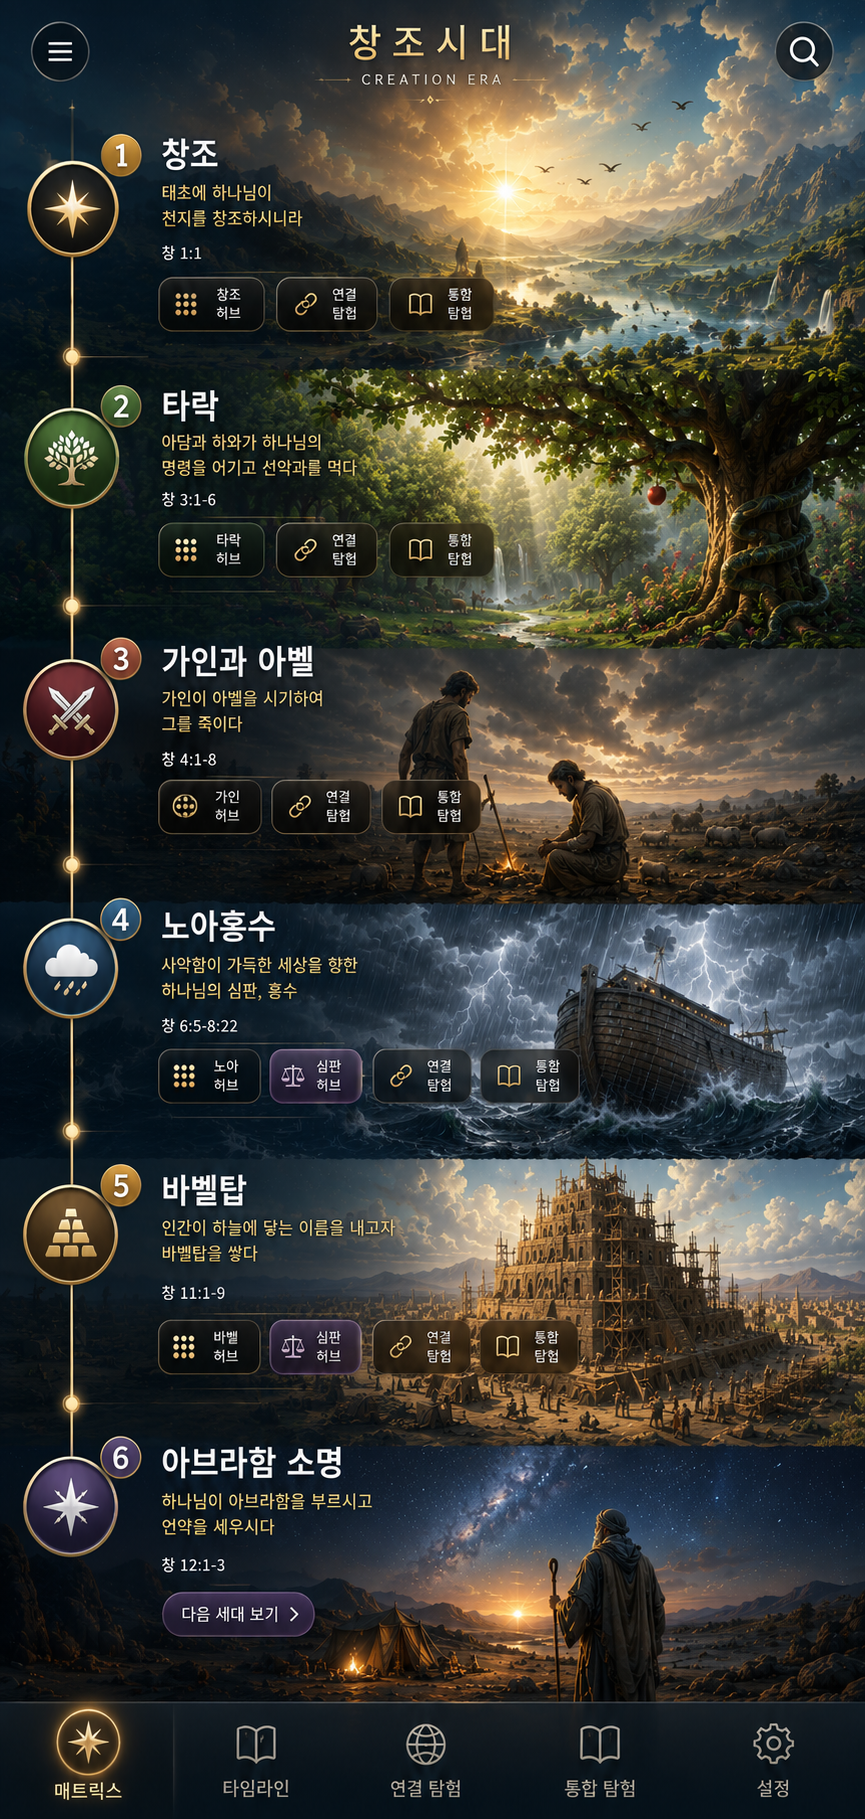
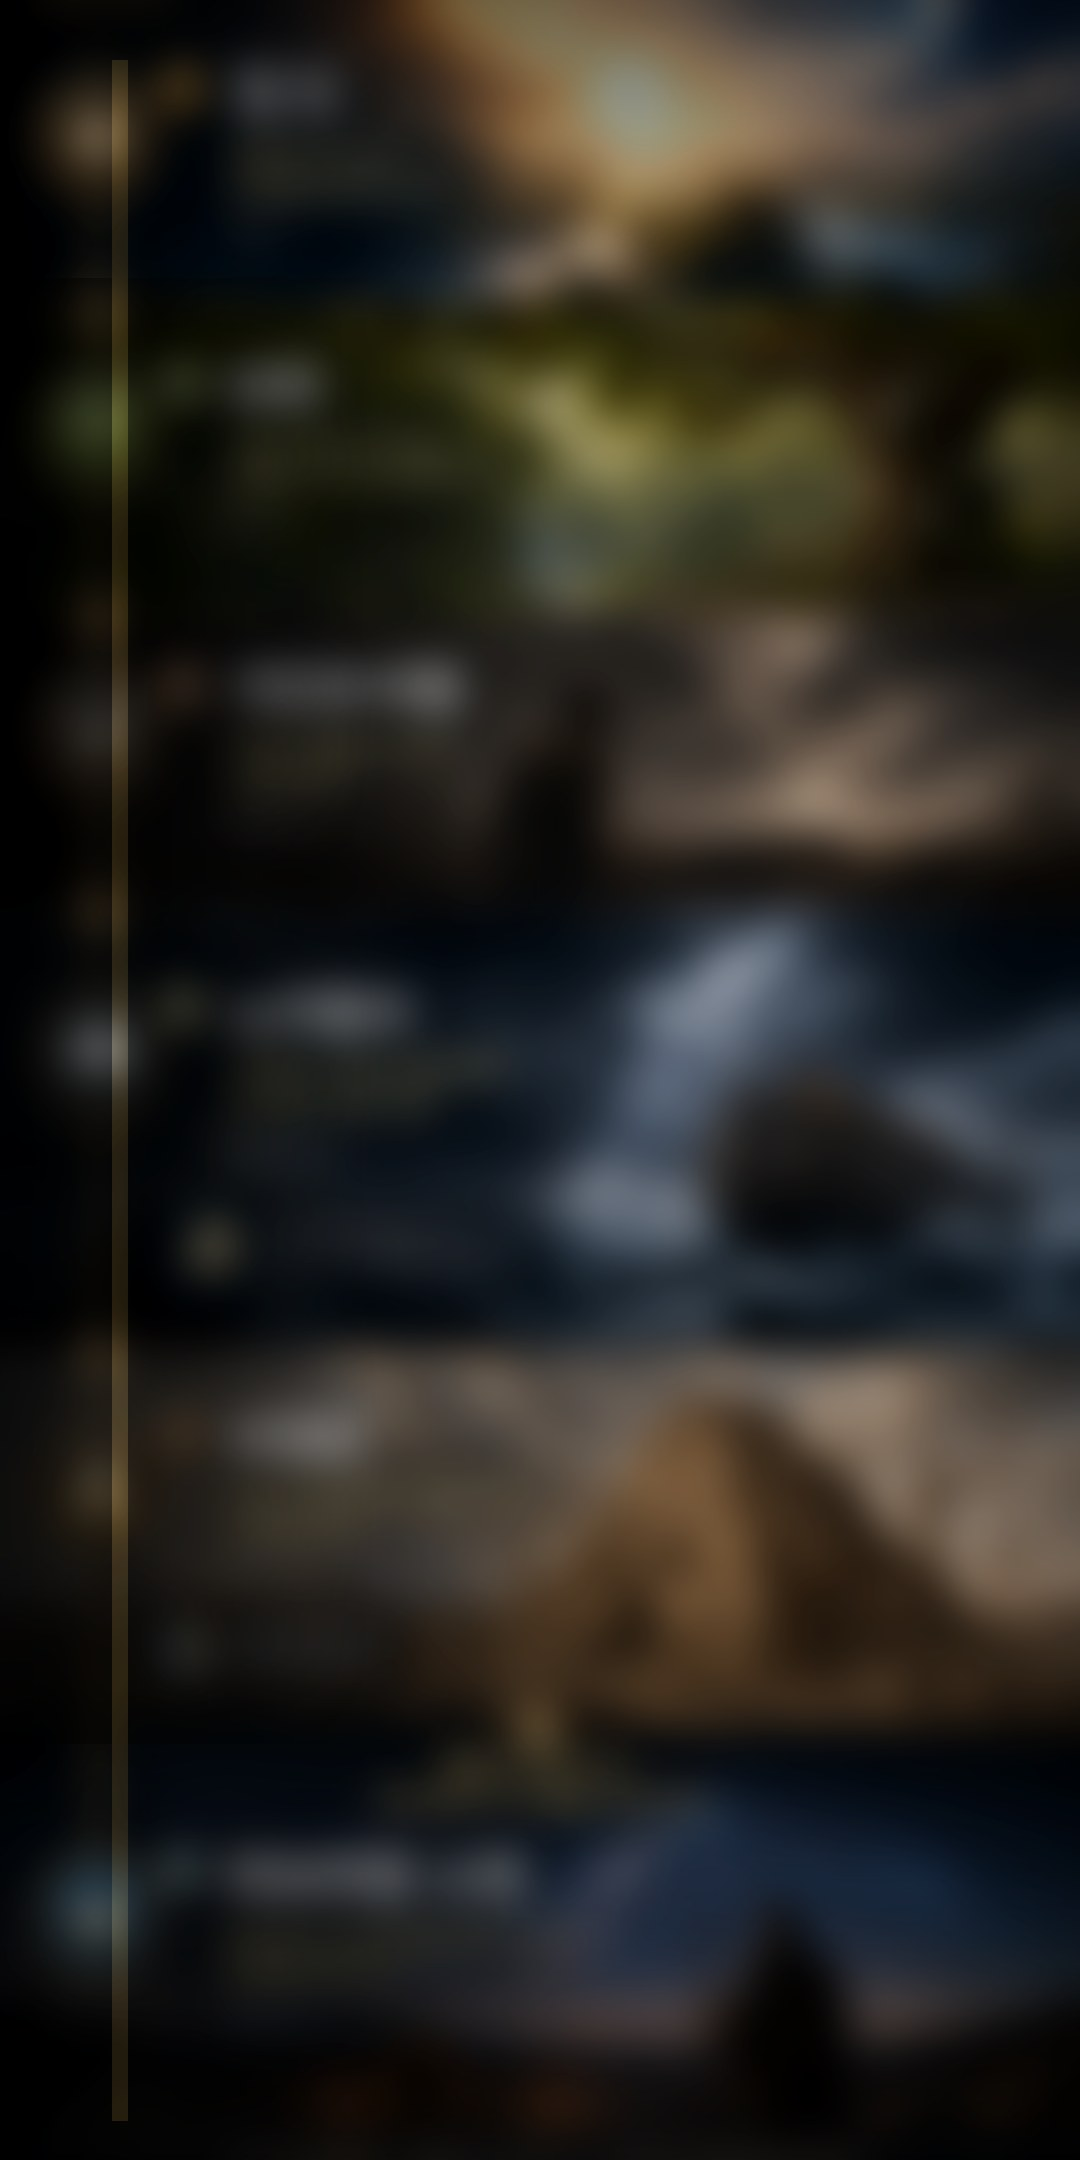
Add files via upload

diff --git a/index.html b/index.html
@@ -3,7 +3,7 @@
 <head>
 <meta charset="utf-8" />
 <meta name="viewport" content="width=device-width, initial-scale=1, viewport-fit=cover" />
-<title>창조시대 Matrix v8</title>
+<title>창조시대 Matrix v6</title>
 <link rel="manifest" href="./manifest.webmanifest" />
 <meta name="theme-color" content="#071017" />
 <style>
@@ -19,16 +19,16 @@ body{display:flex;justify-content:center}
 .stage{position:relative;width:100%;line-height:0;padding-bottom:74px;background:#071017}
 .bg{display:block;width:100%;height:auto;filter:saturate(1.03) contrast(1.02) brightness(.98);user-select:none;pointer-events:none}
 /* 기준 이미지 865×1819 기준으로 % 좌표화. 배경 텍스트 제거 전에도 겹침이 덜 보이도록 텍스트 뒤에만 얇은 스크림을 둔다. */
-.scrim{position:absolute;left:15.5%;width:43%;height:8.9%;border-radius:18px;background:linear-gradient(90deg,rgba(4,8,13,.58),rgba(4,8,13,.31),rgba(4,8,13,0));filter:blur(.2px);z-index:2;pointer-events:none}
+.scrim{position:absolute;left:15.5%;width:43%;height:8.7%;border-radius:18px;background:linear-gradient(90deg,rgba(4,8,13,.46),rgba(4,8,13,.24),rgba(4,8,13,0));filter:blur(.2px);z-index:2;pointer-events:none}
 .s1{top:7.15%}.s2{top:19.4%}.s3{top:32.8%}.s4{top:45.85%}.s5{top:59.2%}.s6{top:72.15%;height:7.8%}
 .titleLayer{position:absolute;z-index:5;left:50%;top:1.55%;transform:translateX(-50%);width:52%;text-align:center;line-height:1;text-shadow:0 3px 12px rgba(0,0,0,.95)}
 .titleLayer h1{margin:0;font-size:clamp(24px,6.2vw,42px);letter-spacing:.16em;color:#f6dfaa;font-weight:800}.titleLayer p{margin:7px 0 0;font-size:clamp(8.5px,1.9vw,12px);letter-spacing:.18em;color:#dfc284;font-weight:650}
 .eventTitle{position:absolute;z-index:6;left:18.0%;width:44%;line-height:1.04;text-shadow:0 3px 8px rgba(0,0,0,.95),0 0 18px rgba(0,0,0,.82)}
-.eventTitle h2{margin:0;color:var(--white);font-size:clamp(15px,3.75vw,24px);font-weight:950;letter-spacing:-.075em;white-space:nowrap;text-shadow:0 4px 10px rgba(0,0,0,.98),0 0 18px rgba(0,0,0,.9)}.eventTitle .desc{margin:.42em 0 0;color:#ffe28a;font-size:clamp(7.8px,1.75vw,10.5px);font-weight:760;line-height:1.28;letter-spacing:-.05em;word-break:keep-all;overflow-wrap:normal;text-shadow:0 3px 7px rgba(0,0,0,.95)}.eventTitle .ref{margin:.42em 0 0;color:#fff;font-size:clamp(7.4px,1.55vw,9.2px);font-weight:700;opacity:.96;text-shadow:0 2px 6px rgba(0,0,0,.92)}
+.eventTitle h2{margin:0;color:var(--white);font-size:clamp(11px,2.75vw,18px);font-weight:600;letter-spacing:-.055em;white-space:nowrap}.eventTitle .desc{margin:.32em 0 0;color:#ffe28a;font-size:clamp(7.8px,1.75vw,10.5px);font-weight:700;line-height:1.28;letter-spacing:-.05em;word-break:keep-all;overflow-wrap:normal}.eventTitle .ref{margin:.42em 0 0;color:#fff;font-size:clamp(7.4px,1.55vw,9.2px);font-weight:650;opacity:.95}
 .t1{top:7.35%}.t2{top:19.95%}.t3{top:33.3%}.t4{top:46.4%}.t5{top:59.8%}.t6{top:72.8%}
 /* 버튼은 각 사건 박스의 상단~2/3 지점 사이, 같은 X축 기준으로 정렬 */
 .btnRow{position:absolute;z-index:7;left:51.2%;width:44.4%;display:grid;grid-auto-flow:column;grid-auto-columns:minmax(0,1fr);gap:1.4%;height:3.35%;line-height:1}
-.r1{top:13.65%}.r2{top:24.6%}.r3{top:37.15%}.r4{top:52.9%}.r5{top:66.55%}
+.r1{top:13.65%}.r2{top:24.6%}.r3{top:35.85%}.r4{top:52.9%}.r5{top:66.55%}
 .matrixBtn{border:1px solid rgba(247,216,137,.52);border-radius:12px;background:linear-gradient(180deg,rgba(18,21,24,.84),rgba(5,8,12,.82));box-shadow:0 6px 16px rgba(0,0,0,.38), inset 0 1px 0 rgba(255,255,255,.08);backdrop-filter:blur(5px);color:#f7ead0;font-size:clamp(8px,1.85vw,10.5px);font-weight:850;text-shadow:0 1px 2px rgba(0,0,0,.85);display:flex;align-items:center;justify-content:center;gap:4px;line-height:1.05;padding:0 4px;cursor:pointer;min-width:0;white-space:normal;text-align:center}.matrixBtn .ico{font-size:1.22em;color:var(--gold);line-height:1}.matrixBtn.judgment{border-color:rgba(235,132,171,.75);background:linear-gradient(180deg,rgba(64,33,49,.86),rgba(18,10,17,.82))}.matrixBtn.covenant{border-color:rgba(208,155,255,.72);background:linear-gradient(180deg,rgba(51,36,75,.85),rgba(14,10,24,.83))}.matrixBtn.nations{border-color:rgba(245,185,81,.75);background:linear-gradient(180deg,rgba(83,55,18,.86),rgba(22,14,6,.82))}
 /* 6번은 사건이 아니라 다음 시대 입구로 보이게 상징 오른쪽 아래로 분리 */
 .nextBtn{position:absolute;z-index:8;left:18.0%;top:78.9%;height:3.3%;min-width:22%;padding:0 4%;border:1px solid rgba(208,155,255,.66);border-radius:999px;background:linear-gradient(180deg,rgba(72,47,101,.86),rgba(25,14,43,.88));color:#f3e8ff;font-size:clamp(10px,2.45vw,15px);font-weight:850;box-shadow:0 7px 18px rgba(0,0,0,.4);text-shadow:0 1px 3px rgba(0,0,0,.75);cursor:pointer}

diff --git a/service-worker.js b/service-worker.js
@@ -1,4 +1,4 @@
-const CACHE='creation-matrix-v8';
+const CACHE='creation-matrix-true-portrait-v1';
 self.addEventListener('install',e=>{e.waitUntil(caches.open(CACHE).then(c=>c.addAll(['./','./index.html','./manifest.webmanifest'])));self.skipWaiting();});
 self.addEventListener('activate',e=>{e.waitUntil(caches.keys().then(keys=>Promise.all(keys.filter(k=>k!==CACHE).map(k=>caches.delete(k)))));self.clients.claim();});
 self.addEventListener('fetch',e=>{e.respondWith(caches.match(e.request).then(r=>r||fetch(e.request)));});

diff --git a/sw.js b/sw.js
@@ -1,4 +1,4 @@
-const CACHE='creation-matrix-v8';
+const CACHE='creation-matrix-precision-v1';
 self.addEventListener('install',e=>{e.waitUntil(caches.open(CACHE).then(c=>c.addAll(['./','./index.html','./bg-approved.png','./manifest.webmanifest'])));self.skipWaiting();});
 self.addEventListener('activate',e=>{e.waitUntil(caches.keys().then(keys=>Promise.all(keys.filter(k=>k!==CACHE).map(k=>caches.delete(k)))));self.clients.claim();});
 self.addEventListener('fetch',e=>{e.respondWith(caches.match(e.request).then(r=>r||fetch(e.request)));});